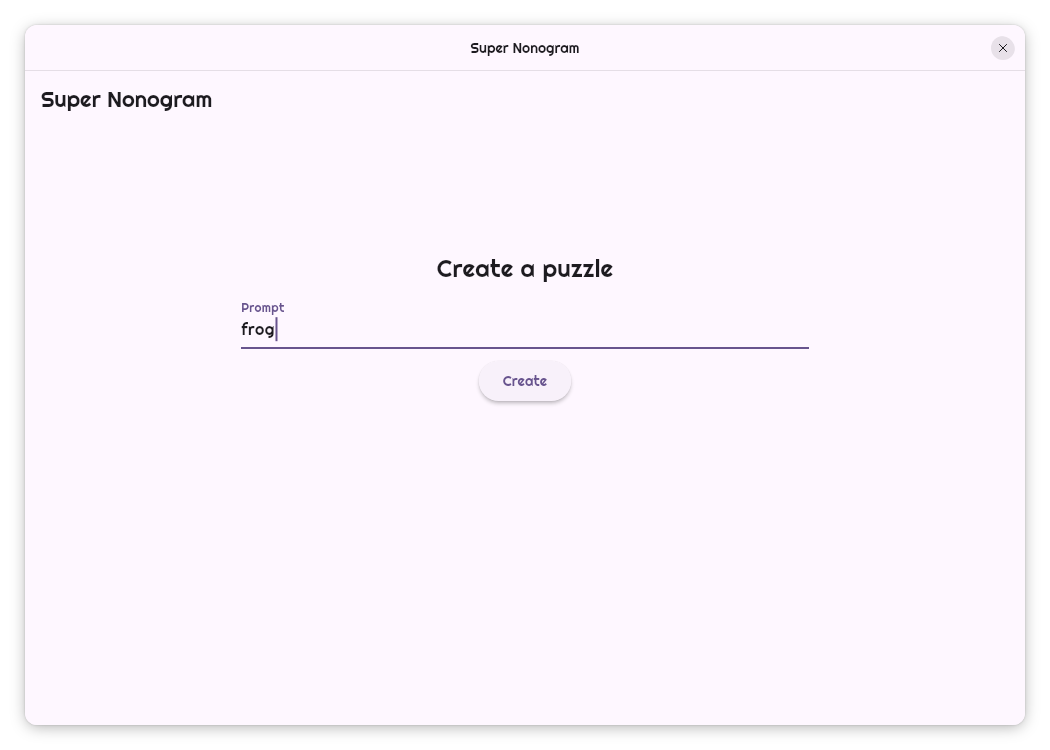
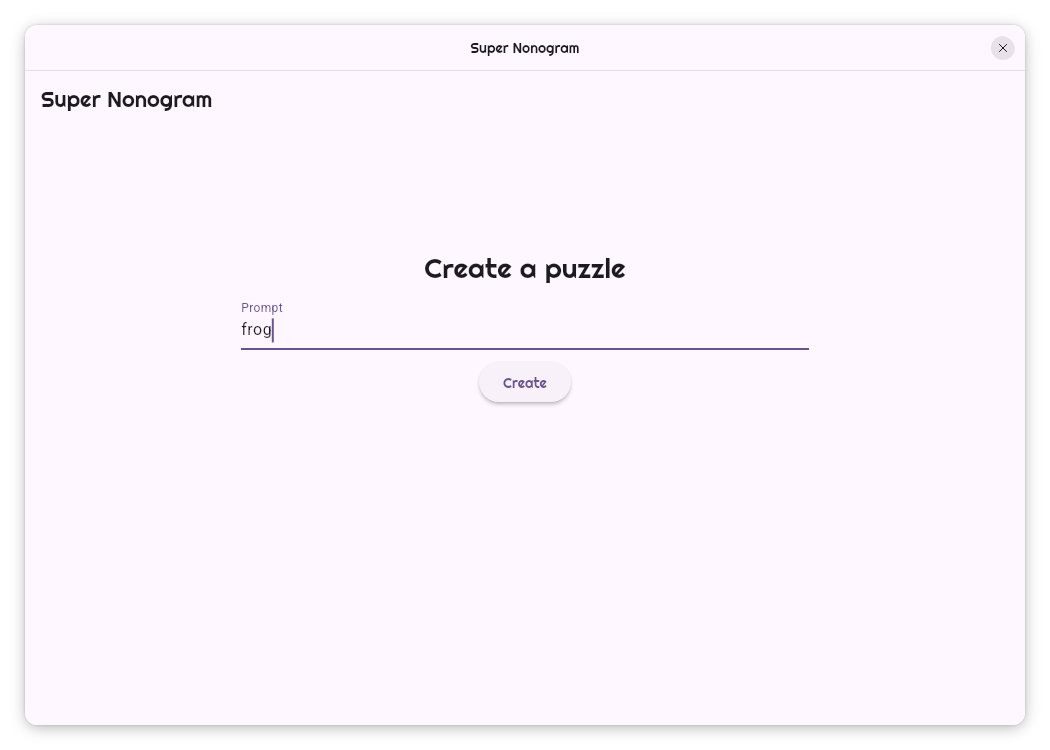
tweak: use sans-serif for body text for readability

Changed region(s): [[0.3962, 0.3373, 0.6095, 0.3987], [0.2133, 0.3987, 0.2743, 0.46], [0.4876, 0.4907, 0.5181, 0.5213]]

diff --git a/lib/pages/title_page.dart b/lib/pages/title_page.dart
@@ -15,25 +15,22 @@ class TitlePage extends StatelessWidget {
 
   @override
   Widget build(BuildContext context) {
-    final colorScheme = Theme.of(context).colorScheme;
-    final mediaQuery = MediaQuery.of(context);
+    final theme = Theme.of(context);
+    final textTheme = theme.textTheme;
+    final screenSize = MediaQuery.sizeOf(context);
 
-    final double titleFontSize;
-    final double buttonFontSize;
-    switch (mediaQuery.size.width) {
-      case < 400:
-        titleFontSize = 24;
-        buttonFontSize = 16;
-      case < 600:
-        titleFontSize = 36;
-        buttonFontSize = 24;
-      default:
-        titleFontSize = 48;
-        buttonFontSize = 32;
-    }
+    final double buttonFontSize = switch (screenSize.width) {
+      < 400 => 16,
+      < 600 => 24,
+      _ => 32,
+    };
 
     final buttonShape = RoundedRectangleBorder(
       borderRadius: BorderRadius.circular(buttonFontSize * 2),
+    );
+    final elevatedButtonStyle = ElevatedButtonTheme.of(context).style!.copyWith(
+      shape: WidgetStatePropertyAll(buttonShape),
+      textStyle: WidgetStatePropertyAll(textTheme.titleLarge!),
     );
 
     return Scaffold(
@@ -41,32 +38,23 @@ class TitlePage extends StatelessWidget {
         child: SingleChildScrollView(
           padding: EdgeInsets.symmetric(
             vertical: 32,
-            horizontal: max((mediaQuery.size.width - 600) / 2, 16),
+            horizontal: max((screenSize.width - 600) / 2, 16),
           ),
           child: Column(
             mainAxisSize: MainAxisSize.min,
             mainAxisAlignment: MainAxisAlignment.center,
             crossAxisAlignment: CrossAxisAlignment.stretch,
             children: [
-              Text(
-                t.title.appName,
-                style: TextStyle(
-                  fontSize: titleFontSize,
-                  color: colorScheme.onSurface,
-                ),
-              ),
+              Text(t.title.appName, style: textTheme.displayMedium),
               const SizedBox(height: 64),
               ElevatedButton(
-                style: ElevatedButton.styleFrom(shape: buttonShape),
+                style: elevatedButtonStyle,
                 onPressed: () {
                   context.push('/play?level=${stows.currentLevel.value}');
                 },
                 child: Padding(
                   padding: EdgeInsets.all(buttonFontSize / 2),
-                  child: Text(
-                    t.title.playLevels,
-                    style: TextStyle(fontSize: buttonFontSize),
-                  ),
+                  child: Text(t.title.playLevels),
                 ),
               ),
               const SizedBox(height: 16),
@@ -79,14 +67,11 @@ class TitlePage extends StatelessWidget {
                 openElevation: 0,
                 closedBuilder: (context, action) {
                   return ElevatedButton(
-                    style: ElevatedButton.styleFrom(shape: buttonShape),
+                    style: elevatedButtonStyle,
                     onPressed: action,
                     child: Padding(
                       padding: EdgeInsets.all(buttonFontSize / 2),
-                      child: Text(
-                        t.title.playImages,
-                        style: TextStyle(fontSize: buttonFontSize),
-                      ),
+                      child: Text(t.title.playImages),
                     ),
                   );
                 },
@@ -97,16 +82,13 @@ class TitlePage extends StatelessWidget {
               if (GamesServicesHelper.osSupported) ...[
                 const SizedBox(height: 16),
                 ElevatedButton(
-                  style: ElevatedButton.styleFrom(shape: buttonShape),
+                  style: elevatedButtonStyle,
                   onPressed: () => runAfterGamesSignIn(
                     () => GamesServices.showAchievements(),
                   ),
                   child: Padding(
                     padding: EdgeInsets.all(buttonFontSize / 2),
-                    child: Text(
-                      t.title.achievements,
-                      style: TextStyle(fontSize: buttonFontSize),
-                    ),
+                    child: Text(t.title.achievements),
                   ),
                 ),
               ],
@@ -120,14 +102,11 @@ class TitlePage extends StatelessWidget {
                 openElevation: 0,
                 closedBuilder: (context, action) {
                   return ElevatedButton(
-                    style: ElevatedButton.styleFrom(shape: buttonShape),
+                    style: elevatedButtonStyle,
                     onPressed: action,
                     child: Padding(
                       padding: EdgeInsets.all(buttonFontSize / 2),
-                      child: Text(
-                        t.settings.settings,
-                        style: TextStyle(fontSize: buttonFontSize),
-                      ),
+                      child: Text(t.settings.settings),
                     ),
                   );
                 },

diff --git a/lib/theme/theme.dart b/lib/theme/theme.dart
@@ -1,3 +1,4 @@
+import 'package:flutter/foundation.dart';
 import 'package:flutter/material.dart';
 import 'package:google_fonts/google_fonts.dart';
 import 'package:super_nonogram/data/stows.dart';
@@ -11,9 +12,76 @@ abstract class SuperNonogramTheme {
       seedColor: Colors.deepPurple,
       brightness: brightness,
     );
-    final textTheme = stows.hyperlegibleFont.value
-        ? GoogleFonts.atkinsonHyperlegibleTextTheme()
-        : GoogleFonts.righteousTextTheme();
-    return ThemeData(colorScheme: colorScheme, textTheme: textTheme);
+    final textTheme = getTextTheme(stows.hyperlegibleFont.value, colorScheme);
+    return ThemeData(
+      colorScheme: colorScheme,
+      textTheme: textTheme,
+      buttonTheme: ButtonThemeData(
+        textTheme: ButtonTextTheme.primary,
+        shape: RoundedRectangleBorder(borderRadius: BorderRadius.circular(8)),
+      ),
+      elevatedButtonTheme: ElevatedButtonThemeData(
+        style: ElevatedButton.styleFrom(textStyle: textTheme.titleLarge),
+      ),
+      textButtonTheme: TextButtonThemeData(
+        style: TextButton.styleFrom(textStyle: textTheme.titleLarge),
+      ),
+    );
+  }
+
+  static TextTheme getTextTheme(bool useHyperlegible, ColorScheme colorScheme) {
+    final typography = Typography.material2021(
+      platform: defaultTargetPlatform,
+      colorScheme: colorScheme,
+    );
+    final base = colorScheme.brightness == Brightness.dark
+        ? typography.white
+        : typography.black;
+
+    final (headerStyle, bodyStyle) = _getHeaderAndBodyTextStyles(
+      useHyperlegible: useHyperlegible,
+      base: base,
+    );
+
+    return base.copyWith(
+      displayLarge: base.displayLarge!.merge(headerStyle),
+      displayMedium: base.displayMedium!.merge(headerStyle),
+      displaySmall: base.displaySmall!.merge(headerStyle),
+      headlineLarge: base.headlineLarge!.merge(headerStyle),
+      headlineMedium: base.headlineMedium!.merge(headerStyle),
+      headlineSmall: base.headlineSmall!.merge(headerStyle),
+      titleLarge: base.titleLarge!.merge(headerStyle),
+      titleMedium: base.titleMedium!.merge(headerStyle),
+      titleSmall: base.titleSmall!.merge(headerStyle),
+      bodyLarge: base.bodyLarge!.merge(bodyStyle),
+      bodyMedium: base.bodyMedium!.merge(bodyStyle),
+      bodySmall: base.bodySmall!.merge(bodyStyle),
+      labelLarge: base.labelLarge!.merge(bodyStyle),
+      labelMedium: base.labelMedium!.merge(bodyStyle),
+      labelSmall: base.labelSmall!.merge(bodyStyle),
+    );
+  }
+
+  static (TextStyle, TextStyle) _getHeaderAndBodyTextStyles({
+    required bool useHyperlegible,
+    required TextTheme base,
+  }) {
+    final systemStyle = TextStyle(
+      fontFamily: base.bodyMedium!.fontFamily,
+      fontFamilyFallback: [
+        'Adwaita Sans', // not included in Flutter yet
+        ...?base.bodyMedium!.fontFamilyFallback,
+        'Atkinson Hyperlegible Next',
+        'AtkinsonHyperlegibleNext',
+        'Atkinson Hyperlegible',
+        'AtkinsonHyperlegible',
+      ],
+    );
+    late final hyperlegibleStyle = GoogleFonts.atkinsonHyperlegible();
+    final righteousStyle = GoogleFonts.righteous();
+
+    final headerStyle = useHyperlegible ? hyperlegibleStyle : righteousStyle;
+    final bodyStyle = useHyperlegible ? hyperlegibleStyle : systemStyle;
+    return (headerStyle, bodyStyle);
   }
 }

diff --git a/lib/pages/settings_page.dart b/lib/pages/settings_page.dart
@@ -15,8 +15,10 @@ class SettingsPage extends StatefulWidget {
 class _SettingsPageState extends State<SettingsPage> {
   @override
   Widget build(BuildContext context) {
-    final colorScheme = Theme.of(context).colorScheme;
+    final theme = Theme.of(context);
+    final colorScheme = theme.colorScheme;
     final iconTheme = IconTheme.of(context);
+    final textTheme = theme.textTheme;
 
     return Scaffold(
       appBar: AppBar(title: Text(t.settings.settings)),
@@ -36,7 +38,9 @@ class _SettingsPageState extends State<SettingsPage> {
                   children: [
                     Text(
                       'Aa',
-                      style: TextStyle(fontSize: iconTheme.size ?? 24),
+                      style: textTheme.displaySmall?.copyWith(
+                        fontSize: iconTheme.size ?? 24,
+                      ),
                     ),
                     Text(t.settings.hyperlegibleFont),
                     Switch(
@@ -61,10 +65,7 @@ class _SettingsPageState extends State<SettingsPage> {
                   children: [
                     const FaIcon(FontAwesomeIcons.info),
                     Text(t.title.appName),
-                    Text(
-                      t.settings.about,
-                      style: const TextStyle(fontSize: 12),
-                    ),
+                    Text(t.settings.about, style: textTheme.labelMedium),
                   ],
                 ),
                 const Divider(),

diff --git a/lib/pages/play_page.dart b/lib/pages/play_page.dart
@@ -86,7 +86,6 @@ class _PlayPageState extends State<PlayPage> {
             onALevel
                 ? t.play.levelCompleted(n: widget.level!)
                 : t.play.puzzleCompleted,
-            style: TextStyle(color: colorScheme.onSurface),
           ),
           content: Column(
             mainAxisSize: MainAxisSize.min,
@@ -164,6 +163,7 @@ class _PlayPageState extends State<PlayPage> {
   @override
   Widget build(BuildContext context) {
     final parentTheme = Theme.of(context);
+    final textTheme = parentTheme.textTheme;
     return FutureBuilder(
       future: imageBytes == null
           ? null
@@ -198,10 +198,7 @@ class _PlayPageState extends State<PlayPage> {
                             ),
                           Text(
                             t.play.level(n: widget.level!),
-                            style: TextStyle(
-                              fontSize: 24,
-                              color: colorScheme.onSurface,
-                            ),
+                            style: textTheme.titleLarge,
                           ),
                           IconButton(
                             onPressed: () {

diff --git a/lib/pages/search_page.dart b/lib/pages/search_page.dart
@@ -65,7 +65,9 @@ class _SearchPageState extends State<SearchPage> {
 
   @override
   Widget build(BuildContext context) {
-    final colorScheme = Theme.of(context).colorScheme;
+    final theme = Theme.of(context);
+    final textTheme = theme.textTheme;
+    final colorScheme = theme.colorScheme;
     return Scaffold(
       appBar: AppBar(title: Text(t.title.appName)),
       body: Center(
@@ -77,10 +79,7 @@ class _SearchPageState extends State<SearchPage> {
               mainAxisAlignment: MainAxisAlignment.center,
               crossAxisAlignment: CrossAxisAlignment.center,
               children: [
-                Text(
-                  t.search.createNewPuzzle,
-                  style: TextStyle(color: colorScheme.onSurface, fontSize: 24),
-                ),
+                Text(t.search.createNewPuzzle, style: textTheme.headlineMedium),
                 const SizedBox(height: 8),
                 Form(
                   key: _formKey,

diff --git a/test/board_golden_test.dart b/test/board_golden_test.dart
@@ -2,6 +2,7 @@ import 'package:flutter/material.dart';
 import 'package:flutter_test/flutter_test.dart';
 import 'package:golden_screenshot/golden_screenshot.dart';
 import 'package:super_nonogram/pages/play_page.dart';
+import 'package:super_nonogram/theme/theme.dart';
 
 void main() {
   group('Board goldens', () {
@@ -9,6 +10,10 @@ void main() {
       testGoldens('Level $level', (tester) async {
         final widget = ScreenshotApp(
           device: GoldenScreenshotDevices.androidPhone.device,
+          theme: SuperNonogramTheme.createTheme(
+            brightness: Brightness.light,
+            colorScheme: null,
+          ),
           home: PlayPage(level: level, query: null),
         );
         await tester.pumpWidget(widget);
